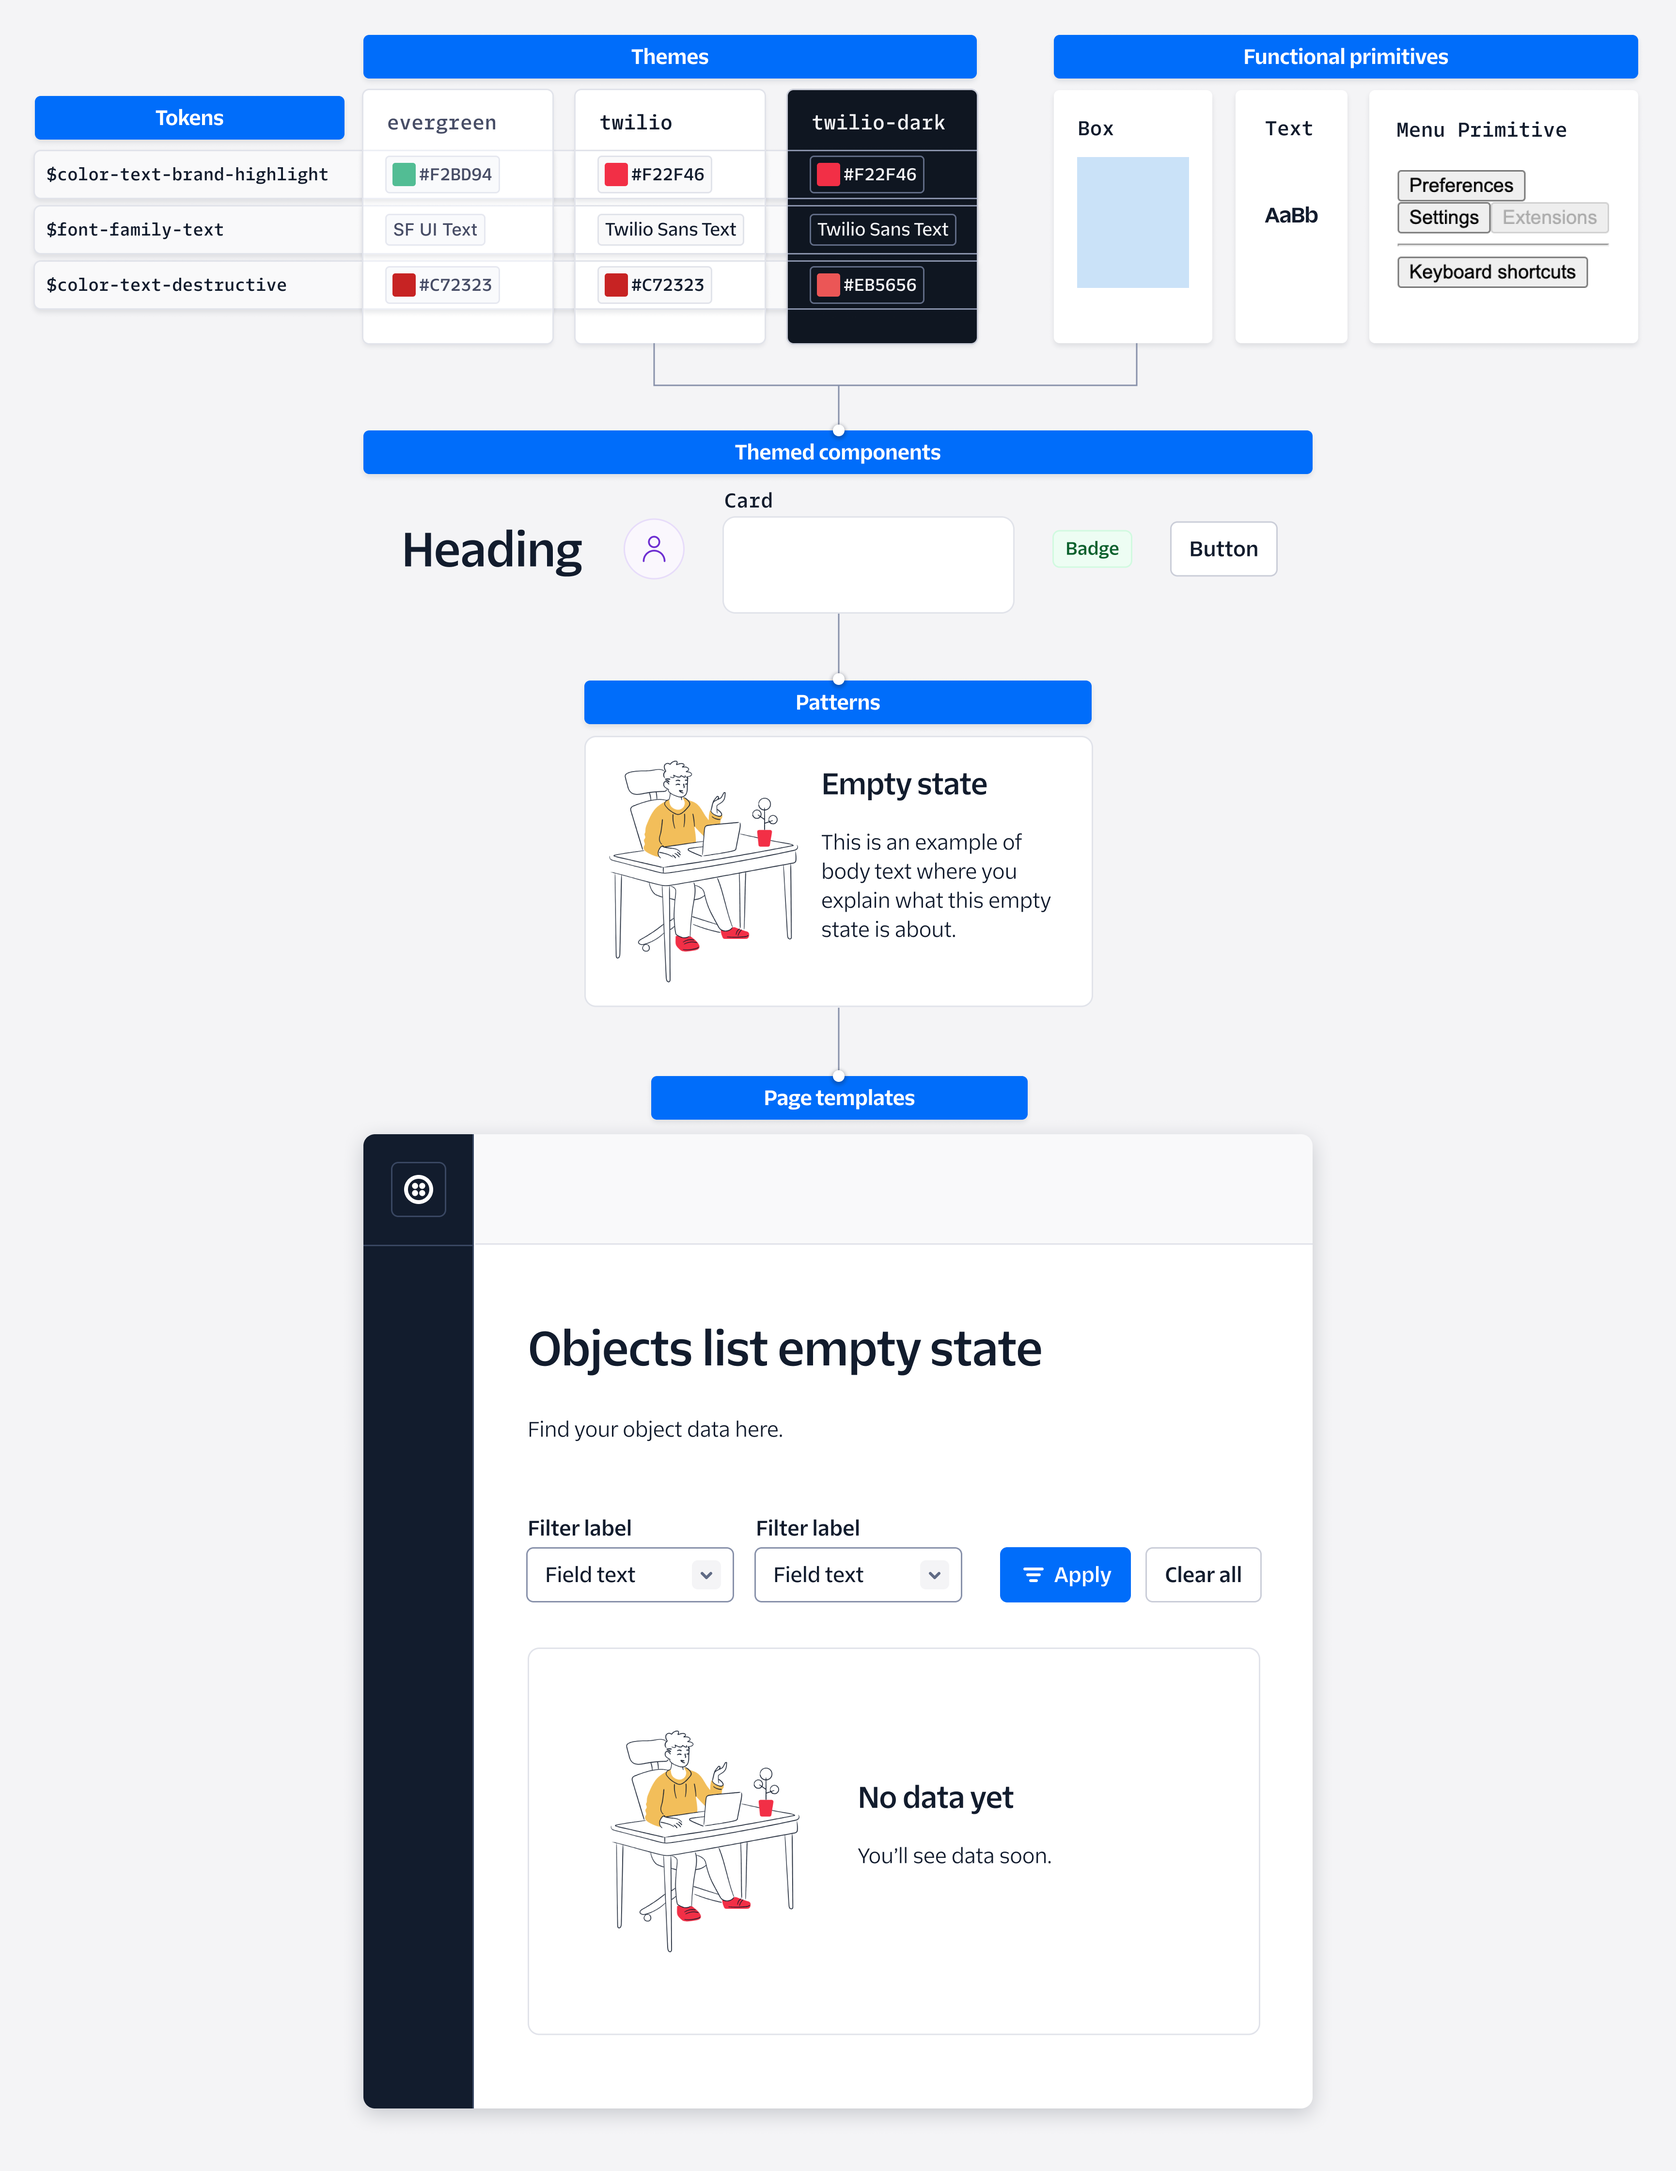
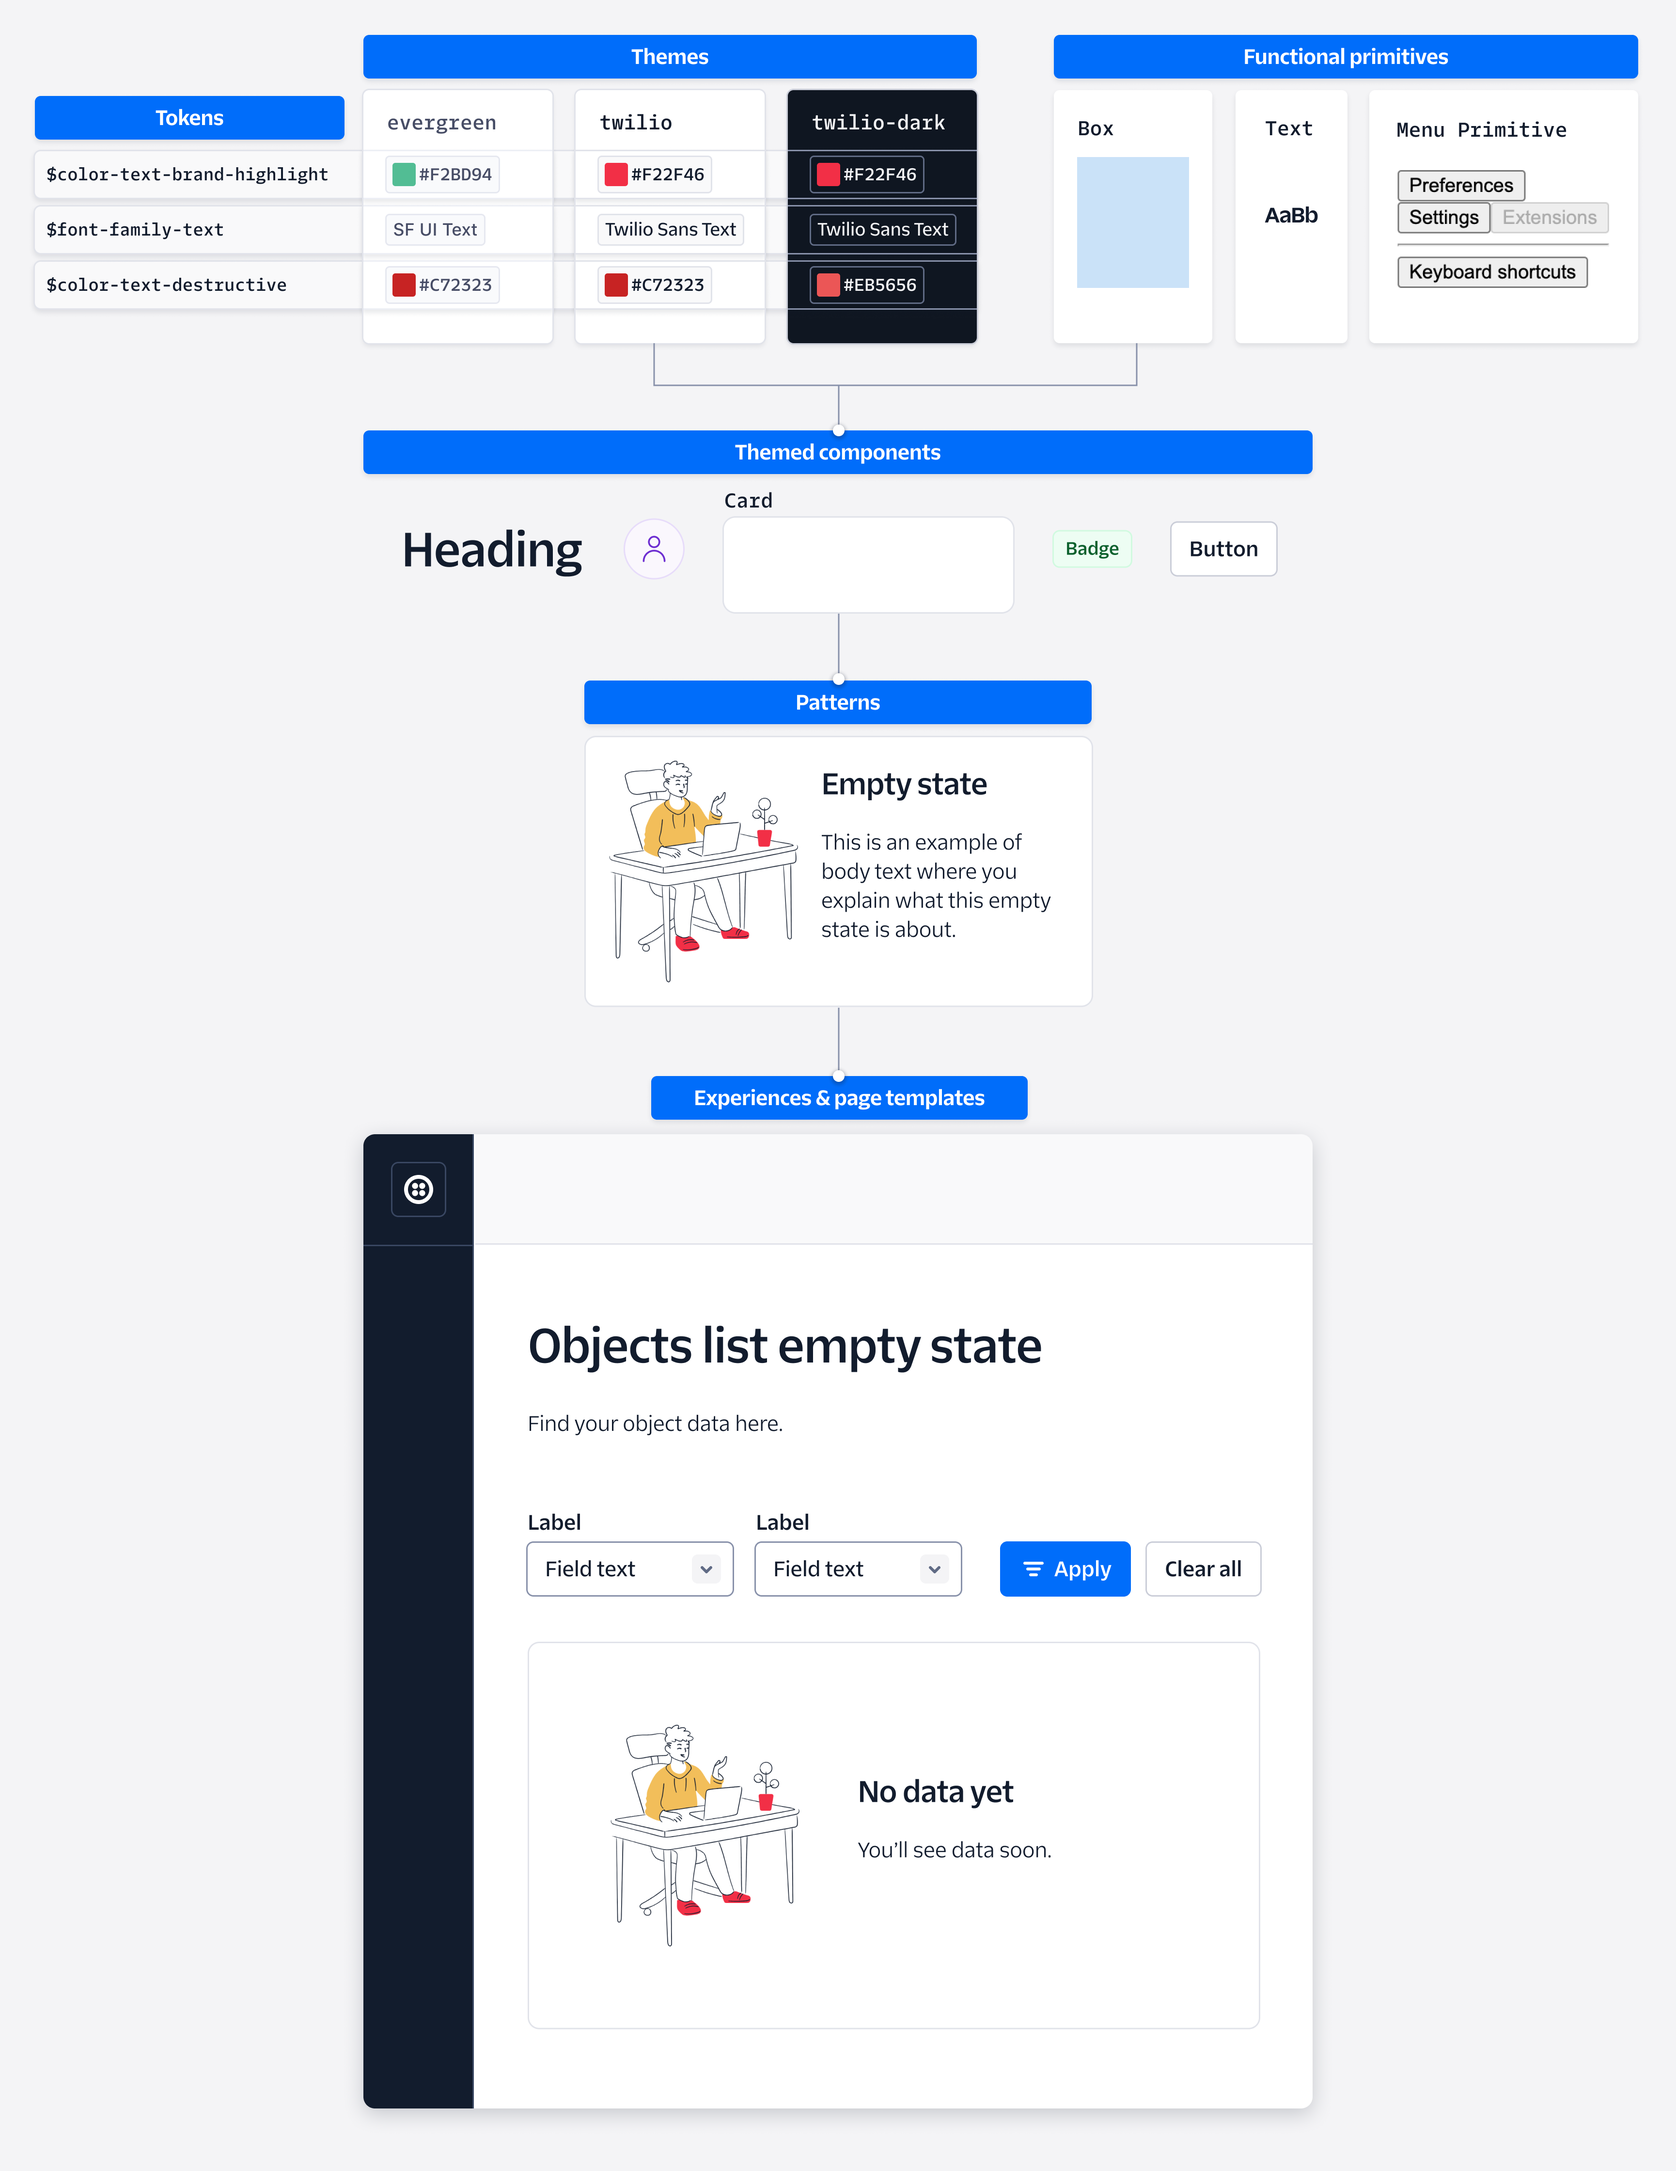
chore: address pr feedback

diff --git a/cypress/integration/sitemap-vrt/constants.ts b/cypress/integration/sitemap-vrt/constants.ts
@@ -279,6 +279,9 @@ export const SITEMAP = [
   "/introduction/for-engineers/quickstart/",
   "/introduction/working-with-us/",
   "/new",
+  "/experiences",
+  "/experiences/artificial-intelligence/",
+  "/experiences/navigation/",
   "/page-templates/",
   "/page-templates/object-details/",
   "/page-templates/objects-list/",
@@ -291,7 +294,6 @@ export const SITEMAP = [
   "/patterns/",
   "/patterns/empty-state/",
   "/patterns/error-state/",
-  "/patterns/navigation/",
   "/patterns/notifications-and-feedback/",
   "/patterns/privacy/",
   "/patterns/status/",
